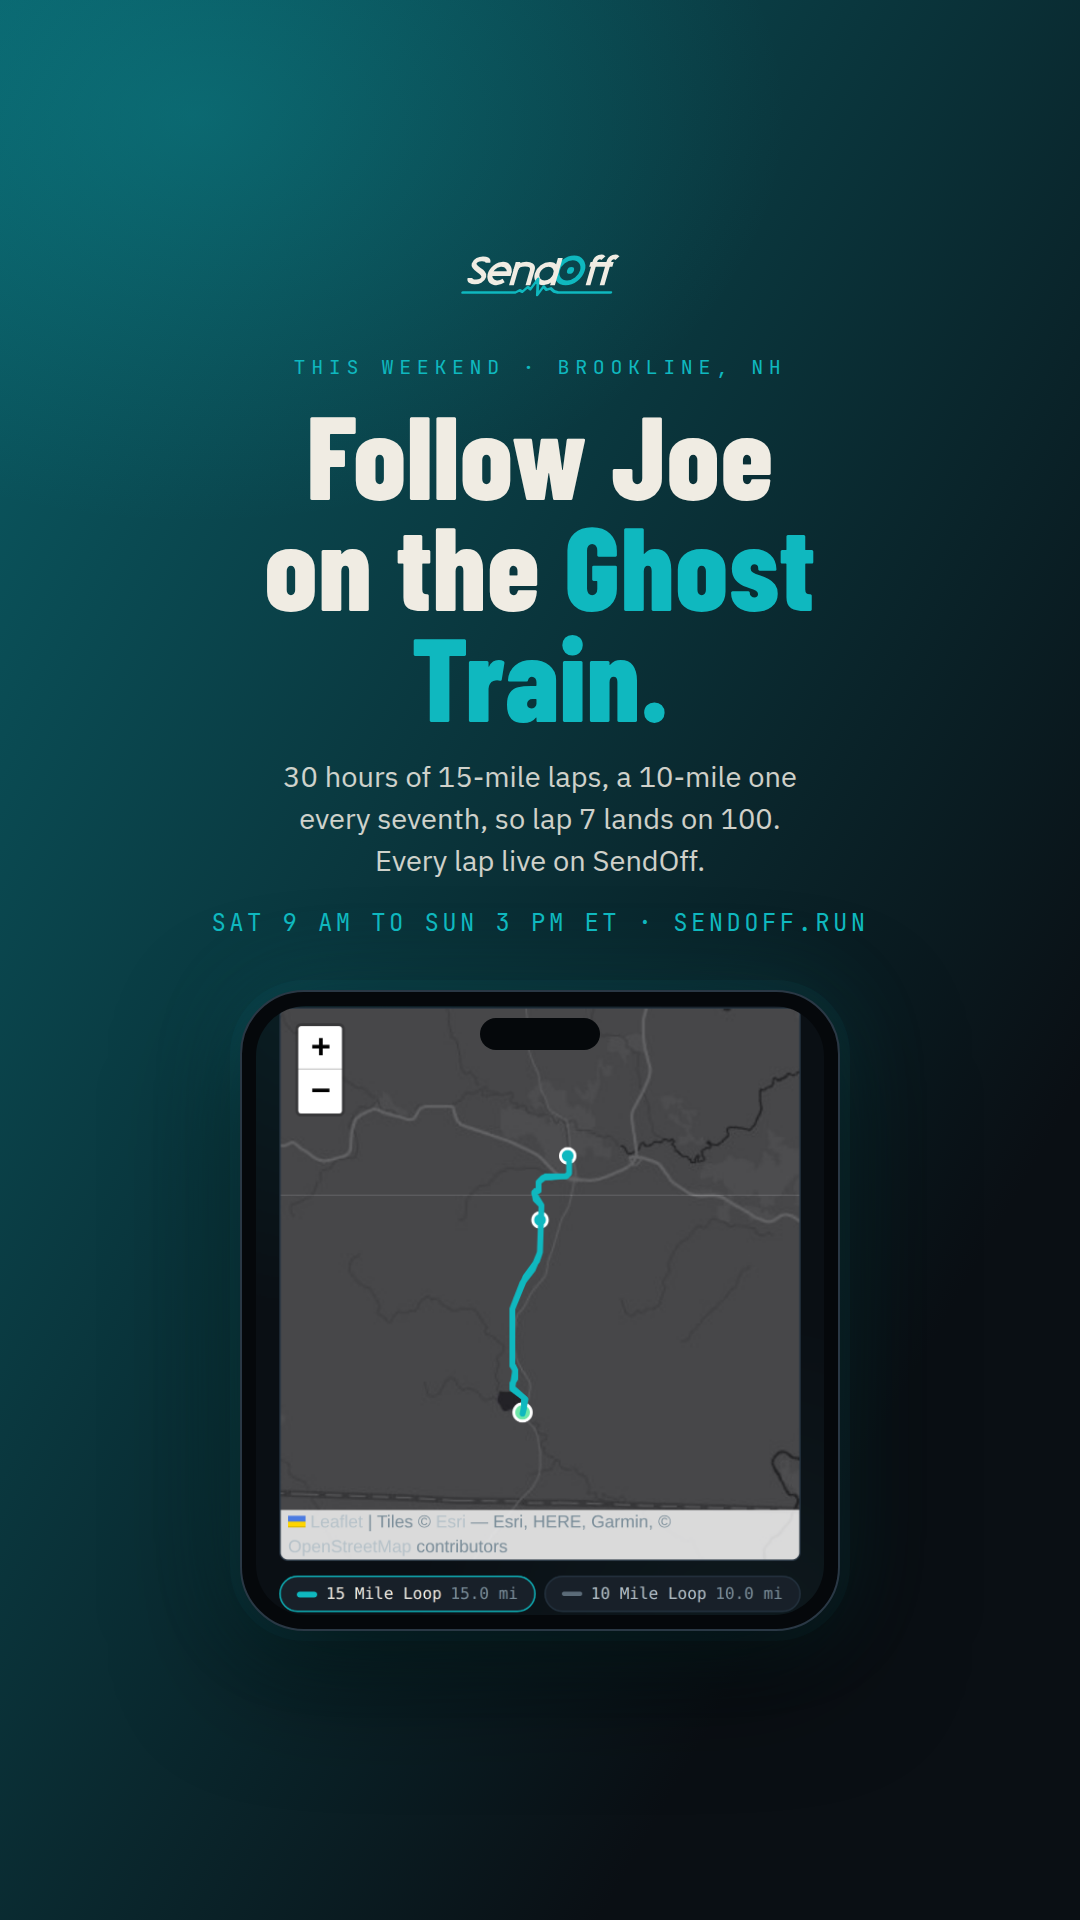
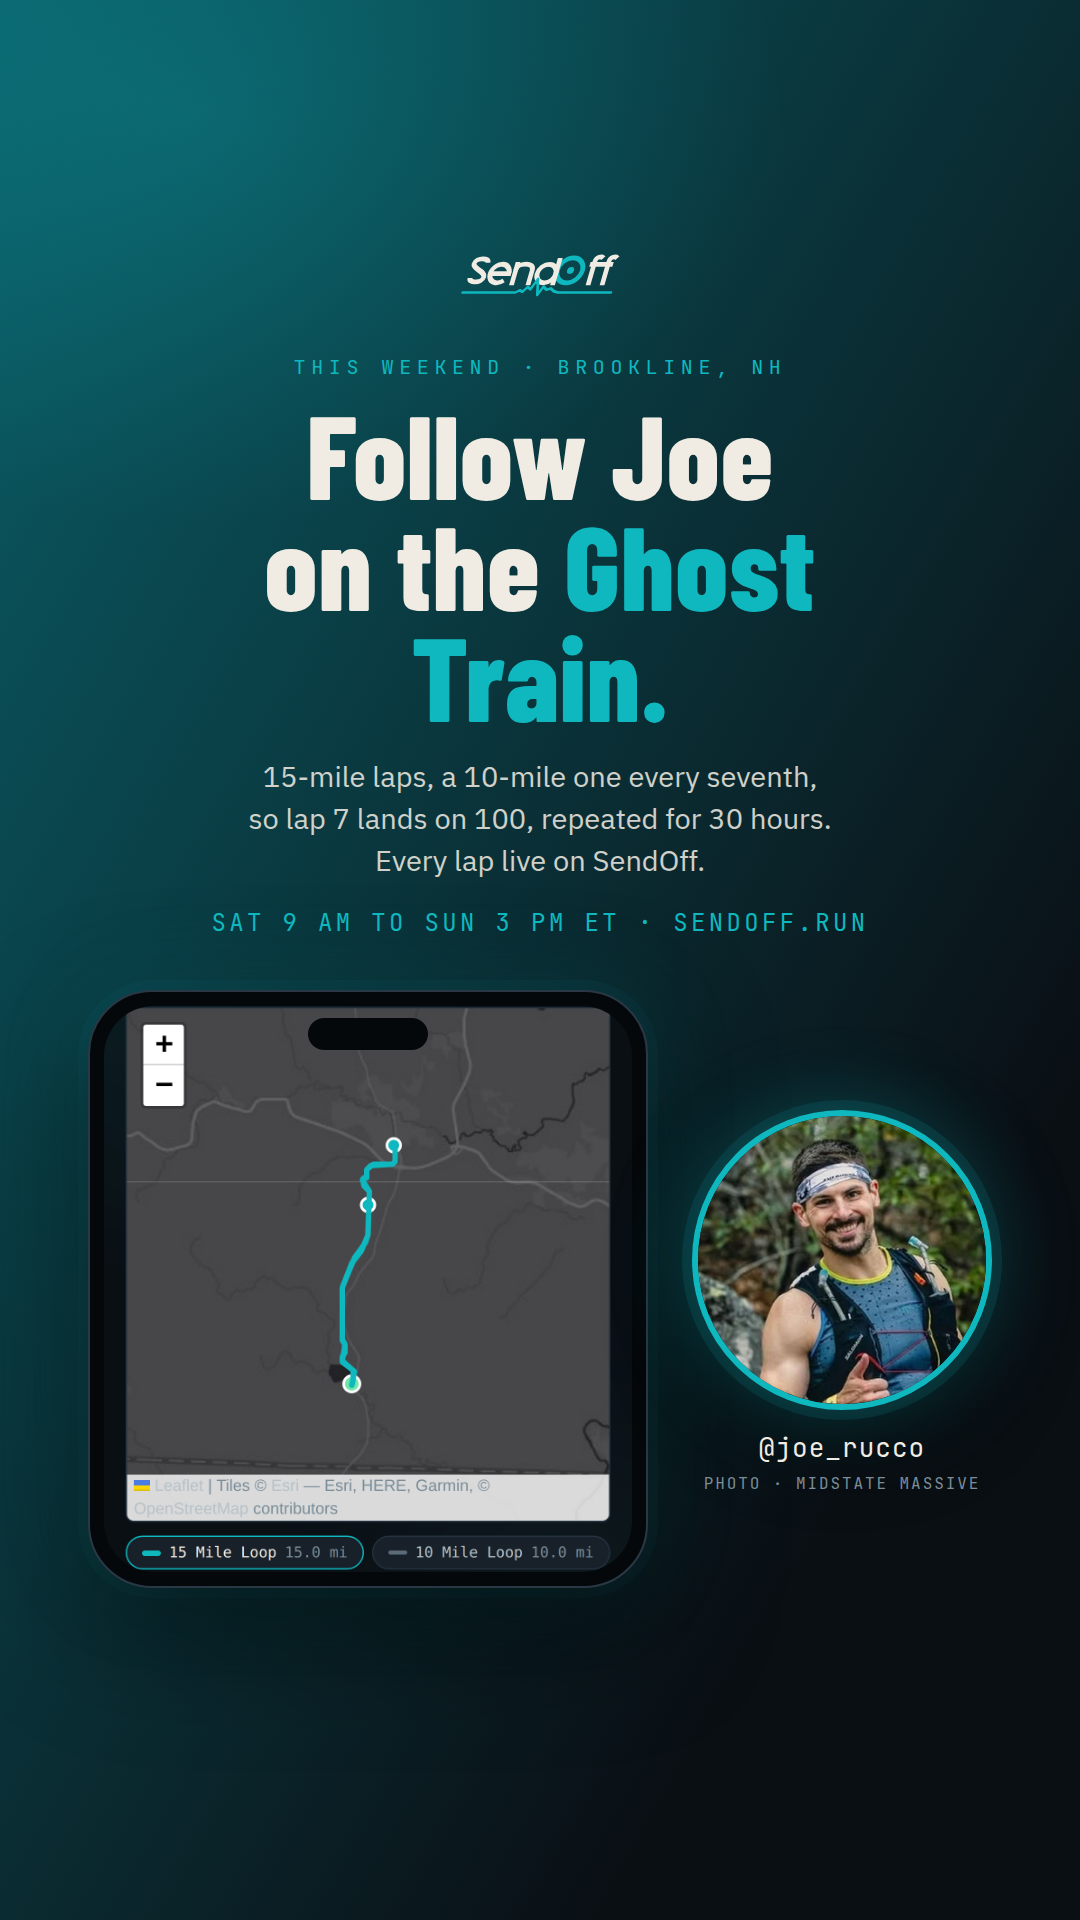
Ghost Train story: Joe's portrait beside the phone
The phone moves left and Joe's round portrait sits level with it on the
right, with his handle and the photo's credit, as on the post. The lead
takes the post's new wording, "so lap 7 lands on 100, repeated for 30
hours", and captions.md has that line too, as it now reads on Instagram.

Claude-Session: https://claude.ai/code/session_01EWRjYYN5ZDLhgR1pme87tD

Changed region(s): [[0.0611, 0.5, 0.9472, 0.8438], [0.2444, 0.375, 0.7639, 0.4375], [0.3361, 0.5938, 0.3667, 0.6562]]

diff --git a/brand/social/stories.html b/brand/social/stories.html
@@ -92,18 +92,27 @@
   .story .phone{left:50%;right:auto;transform:translateX(-50%);width:600px;top:990px}
   .story .when{margin-top:26px;font-family:var(--mono);font-size:24px;letter-spacing:.14em;
     text-transform:uppercase;color:var(--signal)}
+  /* A racer's portrait beside the phone: the phone moves left and the
+     portrait, with the handle and the photo's credit, sits level with it. */
+  .story.with-portrait .phone{left:88px;transform:none;width:560px}
+  .portrait{position:absolute;right:88px;width:300px;z-index:2;text-align:center}
+  .portrait img{display:block;width:300px;height:300px;border-radius:50%;object-fit:cover;
+    border:6px solid var(--signal);box-shadow:0 0 0 10px rgba(15,184,191,.12), 0 0 80px rgba(15,184,191,.35), 0 30px 80px rgba(0,0,0,.55)}
+  .portrait figcaption{margin-top:20px;font-family:var(--mono);font-size:26px;color:var(--ink);letter-spacing:.04em}
+  .portrait figcaption small{display:block;margin-top:8px;font-size:16px;color:var(--mute);letter-spacing:.12em;text-transform:uppercase}
 </style></head><body>
 
-<section class="slide story grad glow" id="ghost-train">
+<section class="slide story with-portrait grad glow" id="ghost-train">
   <div class="top">
     <div class="wm"></div>
     <p class="kick">This weekend · Brookline, NH</p>
     <h1>Follow Joe<br>on the <em>Ghost<br>Train.</em></h1>
-    <p class="lead">30 hours of 15-mile laps, a 10-mile one every seventh, so lap 7 lands on 100. Every lap live on SendOff.</p>
+    <p class="lead" style="max-width:40ch;text-wrap:balance">15-mile laps, a 10-mile one every seventh, so lap 7 lands on 100, repeated for 30 hours.<br>Every lap live on SendOff.</p>
     <p class="when">Sat 9 AM to Sun 3 PM ET · sendoff.run</p>
   </div>
   <!-- From the map down to the loop chips: the course heading above it sits
        under the phone's notch. -->
+  <figure class="portrait" style="top:1110px"><img src="photos/joe-rucco-bust.jpg" alt=""><figcaption>@joe_rucco<small>Photo · Midstate Massive</small></figcaption></figure>
   <div class="phone"><img src="shots/ghost-train-map.png" alt="" style="object-fit:cover;object-position:50% 58%;aspect-ratio:1170/1255"></div>
 </section>
 

diff --git a/brand/social/captions.md b/brand/social/captions.md
@@ -315,7 +315,7 @@ Collaborators: @joe_rucco
 
 Follow Joe on the Ghost Train. 🚂👻
 
-@joe_rucco takes on the Ghost Train 30 Hour in Brookline, NH this weekend, from 9 AM Saturday to 3 PM Sunday. It's a rail trail run in laps: 15 miles out and back six times, then a 10-mile one on the seventh, so lap 7 lands on 100. He's going for 100 miles.
+@joe_rucco takes on the Ghost Train 30 Hour in Brookline, NH this weekend, from 9 AM Saturday to 3 PM Sunday. It's a rail trail run in laps: 15 miles out and back six times, then a 10-mile one on the seventh, so lap 7 lands on 100, repeated for 30 hours. He's going for 100 miles.
 
 Follow him live on SendOff: every lap as it's logged, his miles and laps so far, and where his pace puts him when the clock stops.
 
